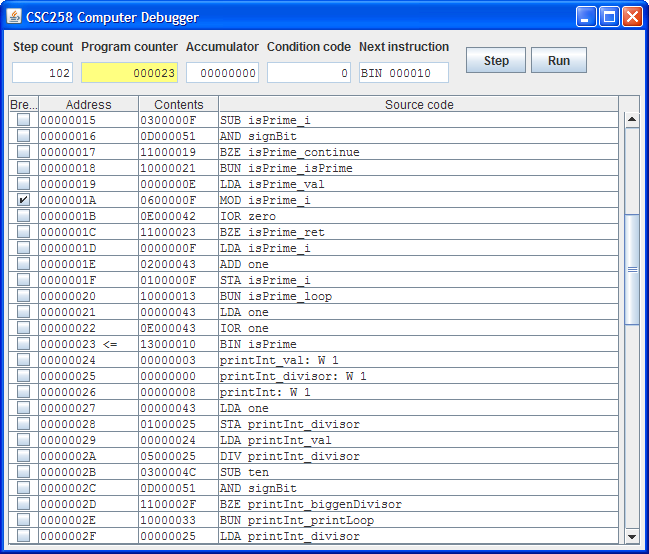
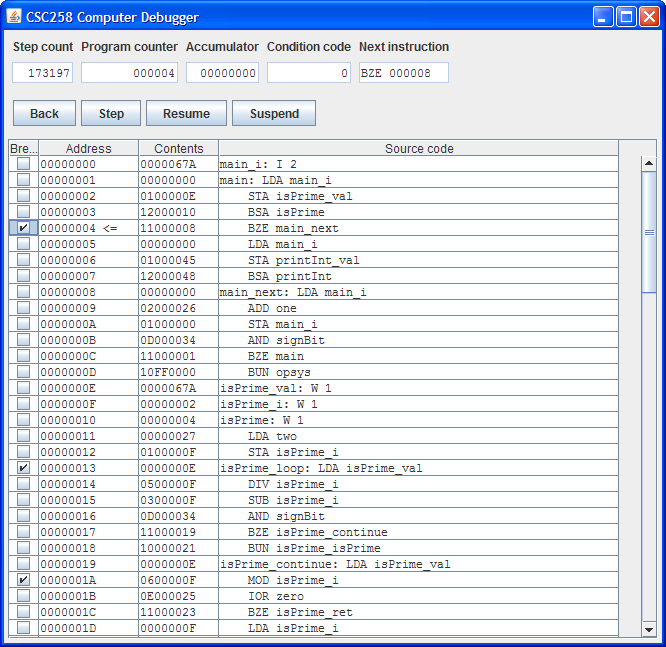
Added debugger guide, updated debugger screenshot.

diff --git a/docs/Debugger guide.html b/docs/Debugger guide.html
@@ -1,0 +1,119 @@
+<?xml version="1.0" encoding="UTF-8"?>
+<!DOCTYPE html PUBLIC "-//W3C//DTD XHTML 1.0 Strict//EN" "http://www.w3.org/TR/xhtml1/DTD/xhtml1-strict.dtd">
+
+<html xmlns="http://www.w3.org/1999/xhtml" xml:lang="en" lang="en">
+	
+	<head>
+		<meta http-equiv="Content-Type" content="text/html; charset=UTF-8"/>
+		<title>CSC258 Computer Debugger Guide</title>
+		
+		<style type="text/css">
+			html, body, h1, h2, p, ul, li {
+				margin: 0em;
+				padding: 0em;
+			}
+			
+			html {
+				max-width: 50em;
+				margin-left: auto;
+				margin-right: auto;
+				padding-top: 1.5em;
+				padding-bottom: 3em;
+				font-family: sans-serif;
+			}
+			
+			h1 {
+				margin-top: 0em;
+				margin-bottom: 1em;
+				text-align: center;
+			}
+			
+			h2 {
+				margin-top: 1.5em;
+				margin-bottom: 0.5em;
+			}
+			
+			p {
+				margin-top: 0.5em;
+				margin-bottom: 0.5em;
+				line-height: 150%;
+			}
+			
+			ul {
+				margin-top: 1em;
+				margin-bottom: 1em;
+				margin-left: 2em;
+			}
+			
+			li {
+				margin-top: 0.5em;
+				margin-bottom: 0.5em;
+			}
+			
+			div.imgblock {
+				padding-top: 20px;
+				padding-bottom: 20px;
+				border: 1px solid rgb(70%, 70%, 70%);
+				background: rgb(95%, 95%, 95%);
+			}
+			
+			div.imgblock img {
+				display: block;
+				margin-left: auto;
+				margin-right: auto;
+			}
+		</style>
+	</head>
+	
+	<body>
+		<h1>CSC258 Computer Debugger Guide</h1>
+		
+		<div class="imgblock">
+			<img src="Debugger screenshot.png" alt="Debugger screenshot"/>
+		</div>
+		
+		<h2>Registers view</h2>
+		<p>At the top, there is a row of text boxes showing the states of all the machine registers, plus some other information.</p>
+		<ul>
+			<li><p>Step count: The number of instructions executed at the current state. When the machine has just started, the value is 0.</p></li>
+			<li><p>Program counter: The program counter, a 24-bit value, displayed in hexadecimal.</p></li>
+			<li><p>Accumulator: The accumulator register, a 32-bit value, displayed in unsigned hexadecimal.</p></li>
+			<li><p>Condition code: The condition code, a Boolean value.</p></li>
+			<li><p>Next instruction: The value of the memory at the program counter location, interpreted as an instruction. The top 8 bits are used to look up the opcode's mnemonic, and the bottom 24 bits are a memory reference, displayed in hexadecimal. If the opcode is illegal, this is indicated. If the machine has halted, this is also shown here.</p></li>
+		</ul>
+		<p>When stepping or back-stepping, the background color of the register text boxes may be highlighted in yellow. For the accumulator and condition code, they are highlighted if their values change. For the program counter, it is highlighted if it changes to any value other than the next higher number; this is useful for detecting branches.</p>
+		<p>When resuming, running, and suspending, the background color of the register text boxes revert to being unhighlighted.</p>
+		<p>The values of registers cannot be changed using this view.</p>
+		
+		<h2>Memory view</h2>
+		<p>The big table on the lower part of the window is the memory view. Each row of the table shows information about a word of memory:</p>
+		<ul>
+			<li><p>Whether a breakpoint is enabled or not.</p></li>
+			<li><p>The memory address, a 24-bit value, displayed in hexadecimal.</p></li>
+			<li><p>The contents of the memory word, a 32-bit value, displayed in unsigned hexadecimal.</p></li>
+			<li><p>The source code line associated with the memory address, if any.</p></li>
+		</ul>
+		<p>The memory view only shows memory addresses in the program's compiled image's range. If the program causes the machine to jump or write to a memory location outside of this region, the effect will happen normally, but the view cannot show it.</p>
+		<p>The contents of the memory cannot be changed using this view.</p>
+		
+		<h2>Execution actions</h2>
+		<p>When the machine has just started, it has not executed any instructions, and it is currently suspended.</p>
+		<ul>
+			<li><p>Step: Executes one instruction.<br/>
+				The machine remains suspended. Breakpoints have no effect. This action has no effect if the machine is running or if the machine has halted.</p></li>
+			<li><p>Back: Restores the machine state from one instruction ago.<br/>
+				The machine remains suspended. Input is memoized, so re-executing an <code>INP</code> will result in the same data being given to the machine. Output data is also memoized, so re-executing an <code>OUT</code> will have its output suppressed. Breakpoints have no effect. This action has no effect if the machine is running.</p></li>
+			<li><p>Resume: Resumes execution of the machine until a breakpoint is hit or the suspend button is pressed.<br/>
+				It is allowed to add and remove breakpoints when the machine is running. This action has no effect if the machine has halted.</p></li>
+			<li><p>Suspend: Suspends execution of the machine.<br/>
+				This has no effect if the machine is already suspended.</p></li>
+		</ul>
+		<p>When stepping, the registers view and the memory view update fully after each step action. When running, these views update many times a second.</p>
+		<p>When stepping over an I/O instruction (i.e. <code>INP</code>, <code>OUT</code>), the debugger GUI may freeze until the instruction has completed.</p>
+		
+		<h2>Breakpoints</h2>
+		<p>In the first column of the memory view table, there is a column of checkboxes. To set a breakpoint at a memory address, click on the checkbox. To remove a breakpoint, click the checkbox.</p>
+		<p>Breakpoints are used only when the machine is running. The machine is run by pressing the <q>Resume</q> button.</p>
+	</body>
+	
+</html>
